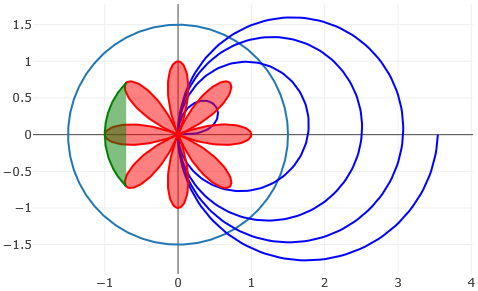
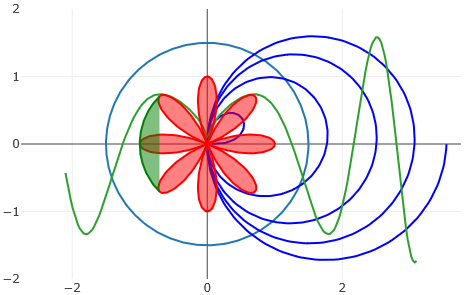
Add files via upload

diff --git a/img/gobjs.html b/img/gobjs.html
@@ -78,8 +78,10 @@ plot(polarcurve('@(t) 2 - 2*sin(t) + sin(t)*sqrt(abs(cos(t))) / (sin(t) + 1.8)',
 plot(
   polarcurve(1.5),
   polarcurve('@(t) sqrt(t) * cos(t)', {0, 4*pi}, '-b'),
+  '@(x) sqrt(abs(x))*cos(x^2)',
   polarcurve('@(t) cos(4*t)', {0, 2*pi}, '-rfs'),
-  parametriccurve2d({cos, sin}, {3/4*pi, 5/4*pi}, '-gfs')
+  parametriccurve2d({cos, sin}, {3/4*pi, 5/4*pi}, '-gfs'),
+  {xrange={-3, 3}, yrange={-2, 2}}
 )
 --<img src=plot10.png width=320>
 
@@ -147,7 +149,7 @@ plotpolarcurve(function(t) return sin(cos(tan(t))) end, {0, 2*pi}, 'rfs')
 plotpolarcurve('@(t) exp(cos(t)) - 2*cos(4*t) + sin(t/4)^3', {0, 10*pi})
 --<img src=po3.png width=320>
 </pre>
-<p>To plot multiple polar curves in a single figure, use <a href=plot.html><code>plot</code></a>. See <a href=#pc><code>polarcurve</code></a>.
+<p>To plot multiple polar curves in a single figure, use <a href=plot.html><code>plot</code></a> together with <a href=#pc><code>polarcurve</code></a>.
 Below can be a different version of <code>plotpolarcurve</code>.</p>
 <pre>require('mathly')
 
@@ -179,8 +181,8 @@ plotpolarcurve(
 
 <h3>&bull; &nbsp; <a name=plotparametriccurve2d href=../mathly.html#m><code>plotparametriccurve2d({x(t), y(t)}, trange, style, resolution, orientationq)</code></a></h3>
 <p>Plot a single 2D curve defined by <code>{x(t), y(t)}</code>. It is simply <code>plot(parametriccurve2d({x(t), y(t)}, trange, style, resolution, orientationq))</code>.</p>
-<p><code>resolution</code> and <code>orientationq</code>? See <a href=../mathly.html#resol><code>parametriccurve2d</code> and <code>polarcurve</code></a>.</p>
-<p>&#x2713; &nbsp; To plot multiple (parametric) curves on a single figure or a parametric curve with more configurations, please use <a href=gobjs.html><code>parametriccurve2d</code></a> together with <a href=plot.html><code>plot</code></a>.</p>
+<p><code>resolution</code> and <code>orientationq</code>? See <a href=#resol><code>parametriccurve2d</code> and <code>polarcurve</code></a>.</p>
+<p>&#x2713; &nbsp; To plot multiple (parametric) curves on a single figure or a parametric curve with more configurations, please use <a href=gobjs.html><code>parametriccurve2d</code></a> together with <a href=plot.html><code>plot</code></a> See: <a href=#pc>example</code>.</p>
 <p>&#x2713; &nbsp; See also: <a href=../mathly.html#easyf>Shortcut for defining a function for this function.</a></p>
 <pre>require('mathly')
 axissquare()
